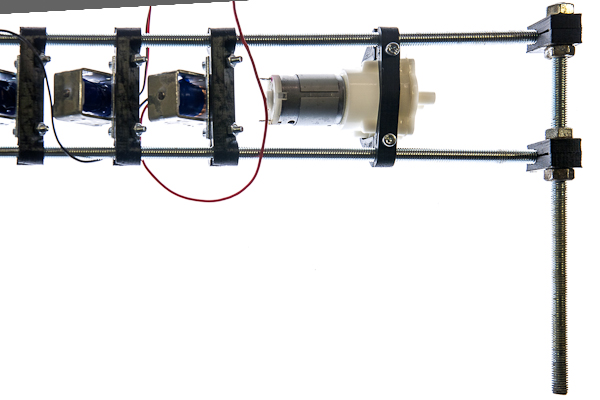
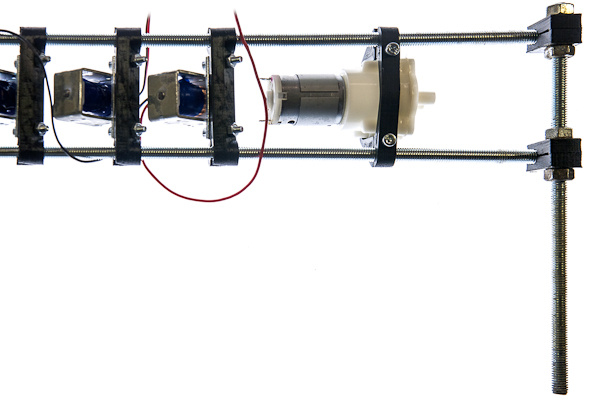
fix instruction pictures

Changed region(s): [[0.0, 0.0, 0.42, 0.06]]

diff --git a/docs/src/building.md b/docs/src/building.md
@@ -138,7 +138,7 @@ Screw a larger magnet cover with outer thread into each of the six magnetic hold
 ### Bringing two rails together
 
 ![picture with all mentioned parts](img/IMG_1040.jpg)
-TODO: replace this picture
+<!-- TODO: replace this picture -->
 
 #### Parts list
 
@@ -160,7 +160,6 @@ To achieve said structure, loosely put the parts in the following order on each 
 Take the upper rail and two longer (210mm long) rods.
 
 ![upper rail on perpendicular rods](img/IMG_2456.jpg)
-TODO: fix this picture
 
 Place both ends of the rail (left and right) between pairs of X-mounts and tighten the nuts.
 Make sure that perpendicular rods are in front of the rail, not on the rear side.
@@ -283,7 +282,6 @@ Tighten just that the interface is not unscrewing itself when forces are applied
 ### Finishing the liquid connections
 
 ![pieces hose on valves and t-pieces, assembly progress](img/IMG_3317.jpg)
-TODO: fix this picture
 
 Cut 5 pieces of hose, each of which is just long enough to connect a T-piece with a valve and put T-pieces on top of the five leftmost (nearest to the main pump) valves.
 Note that the picture is taken from the back side of the machine.
@@ -307,18 +305,19 @@ Connect the other side of the pump to the tank.
 Connect the four hoses attached to two vessels, water filter to valves 1 through 6, the sixth valve is for dirty water output, it needs to be slightly longer, because it leads outside of the machine to your waste water container.
 
 ![two external hoses visible](img/IMG_3383.jpg)
-TODO: which way around is correct?
 
 Cut the hose for clean water input about the same size as the waste water hose, it should reach the source of clean water outside the machine.
 Connect it to the input of the filter pump.
+Input connecting pipe is typically the one further from the axis of the pump.
 
 ![connect filter input hose](img/IMG_1243.jpg)
 
 Cut about 300mm long hose for the filter input.
 Connect it to the output of the filter pump and fix its other side to the input of the filter.
+Output connecting pipe is typically the one closer the axis of the pump.
 
 ![securing hoses with ties, assembly progress](img/IMG_1248.jpg)
-TODO: update this picture
+<!-- TODO: update this picture -->
 
 Secure each end of each hose with a cable ties.
 
@@ -335,7 +334,7 @@ In this document it is supposed that you already have a PCB with all components 
 ### Mounting PCB
 
 ![parts for enclosure](img/IMG_3389.jpg)
-TODO: add display to this picture
+<!-- TODO: add display to this picture -->
 
 #### Parts list
 
@@ -370,7 +369,6 @@ Covering ends of wires with solder using soldering iron is not optimal, since th
 Screwing the wires as is is strongly not recommended.
 
 ![connecting wires to pump](img/IMG_3409.jpg)
-TODO: fix that picture
 
 If the pumps have already pre-soldered wires, you can use them or replace if the length is not enough.
 A nice way is to solder nothing to the pumps and use the contact terminals instead.
